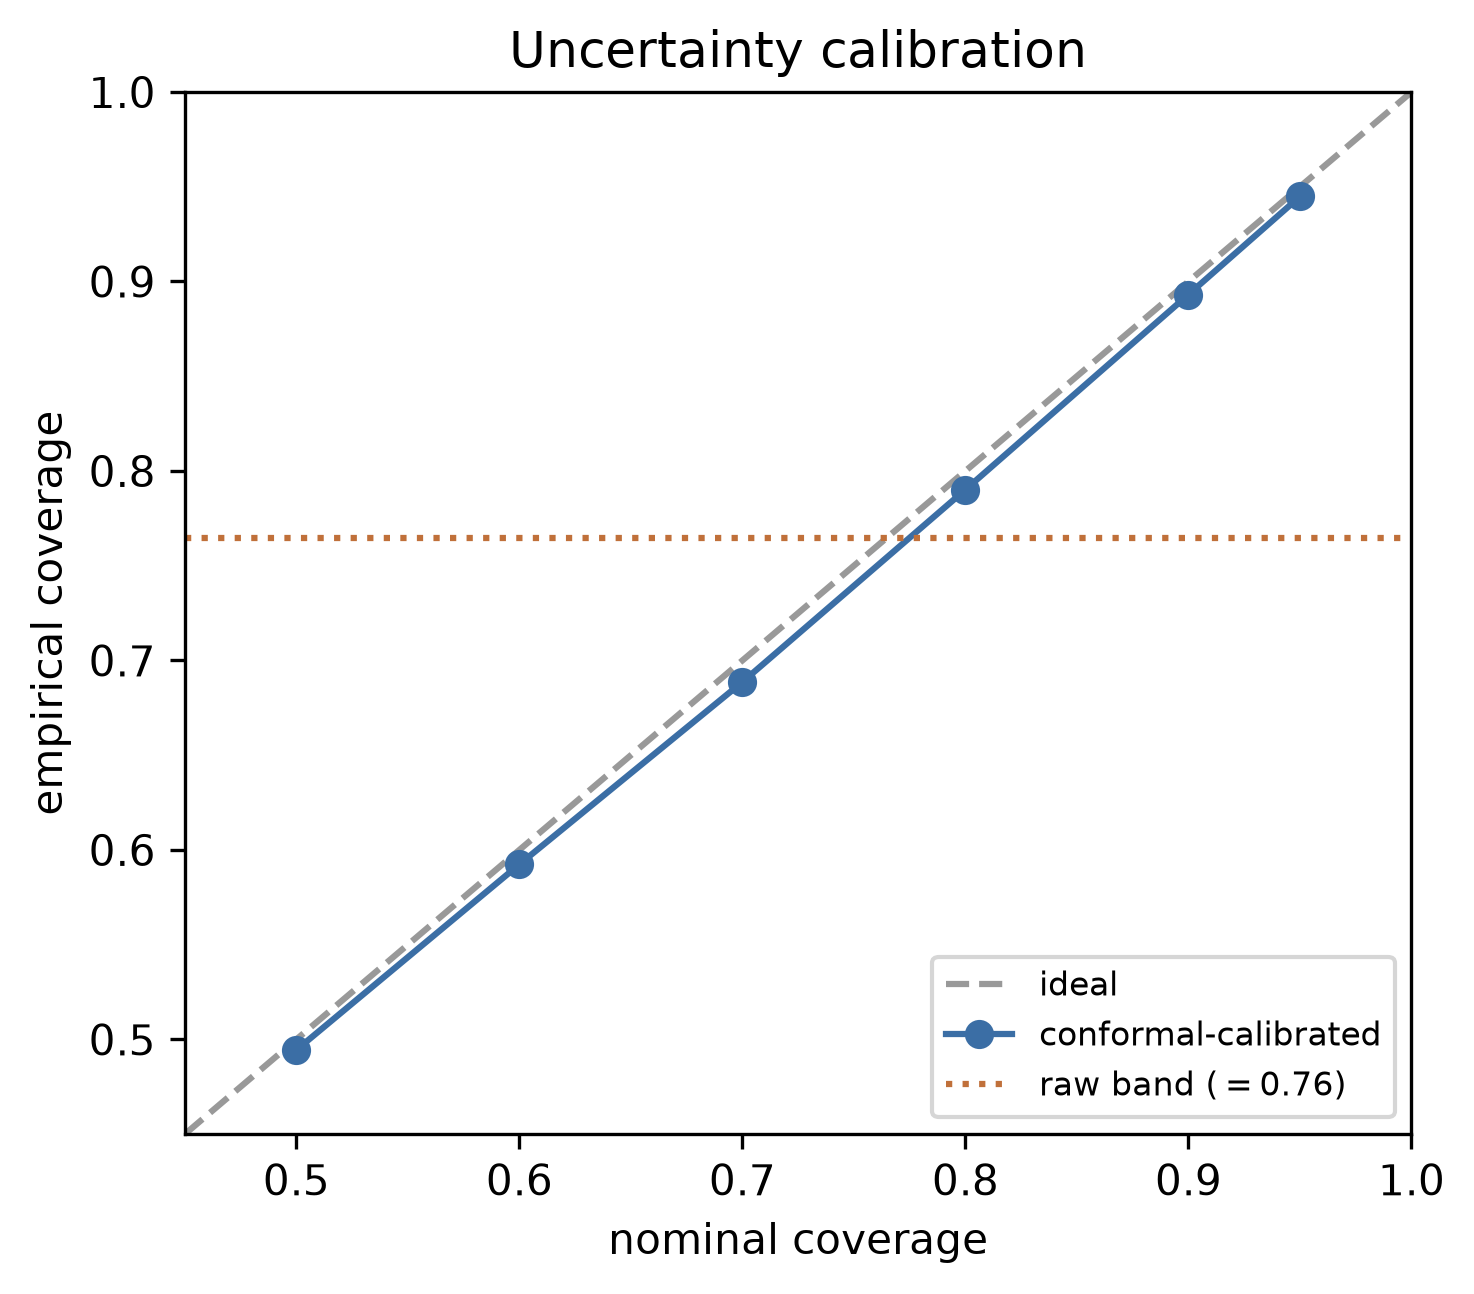
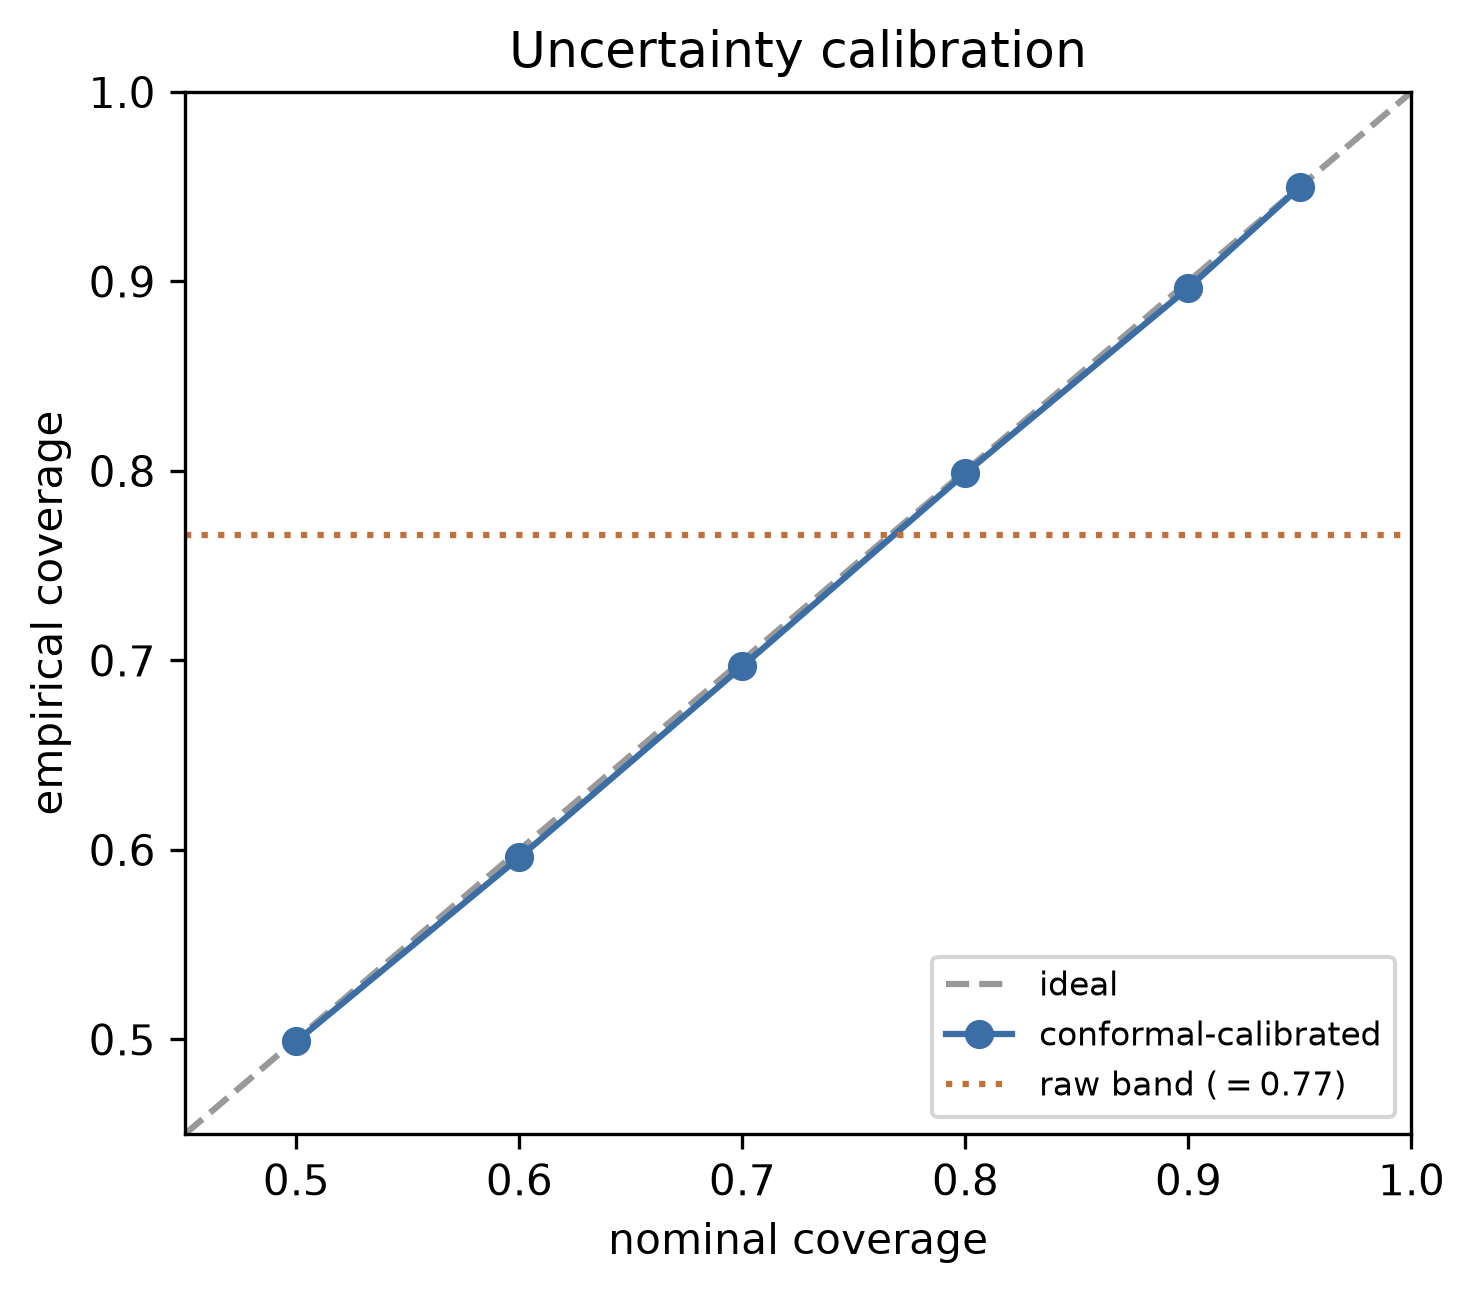
Use finite-sample conformal quantile for adaptive band; align calibration figure to grid (n=7000)

diff --git a/src/eval/calibration.py b/src/eval/calibration.py
@@ -1,9 +1,11 @@
-"""Uncertainty calibration (plan §5.3, manuscript §2.8).
+"""Uncertainty calibration (plan §5.3, manuscript §4.6, Proposition 8).
 
-A raw Mamdani confidence band is not a calibrated interval. We map it to nominal empirical
-coverage with a split-conformal step: on a calibration split, find the band scale q such
-that |reconciled - truth| <= q * half-width at the nominal rate; apply q on the test split.
-Report RAW (q=1) vs CALIBRATED coverage so the gap is visible.
+A raw Mamdani confidence band is not a calibrated interval. We map it to nominal coverage with a
+split-conformal step (the multiplicative / locally-adaptive variant): the per-(cell,channel)
+nonconformity score is the ratio |reconciled - truth| / half-width; q_alpha is the conformal
+(1-alpha)-quantile of the calibration scores, i.e. their ceil((n+1)(1-alpha))-th order statistic;
+the calibrated band is reconciled +- q_alpha * half-width, which preserves the per-cell adaptive
+width. This is exactly the object Proposition 8 certifies. Report RAW (q=1) vs CALIBRATED coverage.
 
     py -m src.eval.calibration
 """
@@ -28,14 +30,17 @@ def conformal_coverage(reconciled, T, half, valid, levels=(0.80, 0.90), seed=0):
 
     resid = np.abs(reconciled - T)                     # (N,K)
     h = np.maximum(half[:, None], 1e-6)                # per-cell half-width, broadcast to K
-    score = resid / h                                  # nonconformity
+    score = resid / h                                  # per-(cell,channel) ratio nonconformity
 
+    cal_scores = np.sort(score[cal].ravel())
+    n = cal_scores.size
     out = {}
     raw_test = (resid[test] <= h[test]).mean()         # raw band coverage (q=1)
     for lvl in levels:
-        q = np.quantile(score[cal].ravel(), lvl)
-        cov = (resid[test] <= q * h[test]).mean()
-        out[lvl] = (float(raw_test), float(cov), float(q))
+        k = int(np.ceil((n + 1) * lvl))                # conformal rank (finite-sample, +1)
+        q = float(cal_scores[min(k, n) - 1])           # ceil((n+1)*lvl)-th smallest score
+        cov = (resid[test] <= q * h[test]).mean()      # band = reconciled +- q * h
+        out[lvl] = (float(raw_test), float(cov), q)
     return out
 
 

diff --git a/src/experiments/figures.py b/src/experiments/figures.py
@@ -117,7 +117,7 @@ def fig_recovery():
 # ---------------------------------------------------------------- fig 4
 def fig_calibration():
     from ..eval.calibration import conformal_coverage
-    X, P, T, channels, sources, meta = generate_tensors(_load("synthetic_default.yaml", n=12000))
+    X, P, T, channels, sources, meta = generate_tensors(_load("synthetic_default.yaml", n=7000))
     r = rec.run(X, P)
     levels = [0.5, 0.6, 0.7, 0.8, 0.9, 0.95]
     res = conformal_coverage(r["reconciled"], T, r["band_half"], r["valid"], levels=tuple(levels))